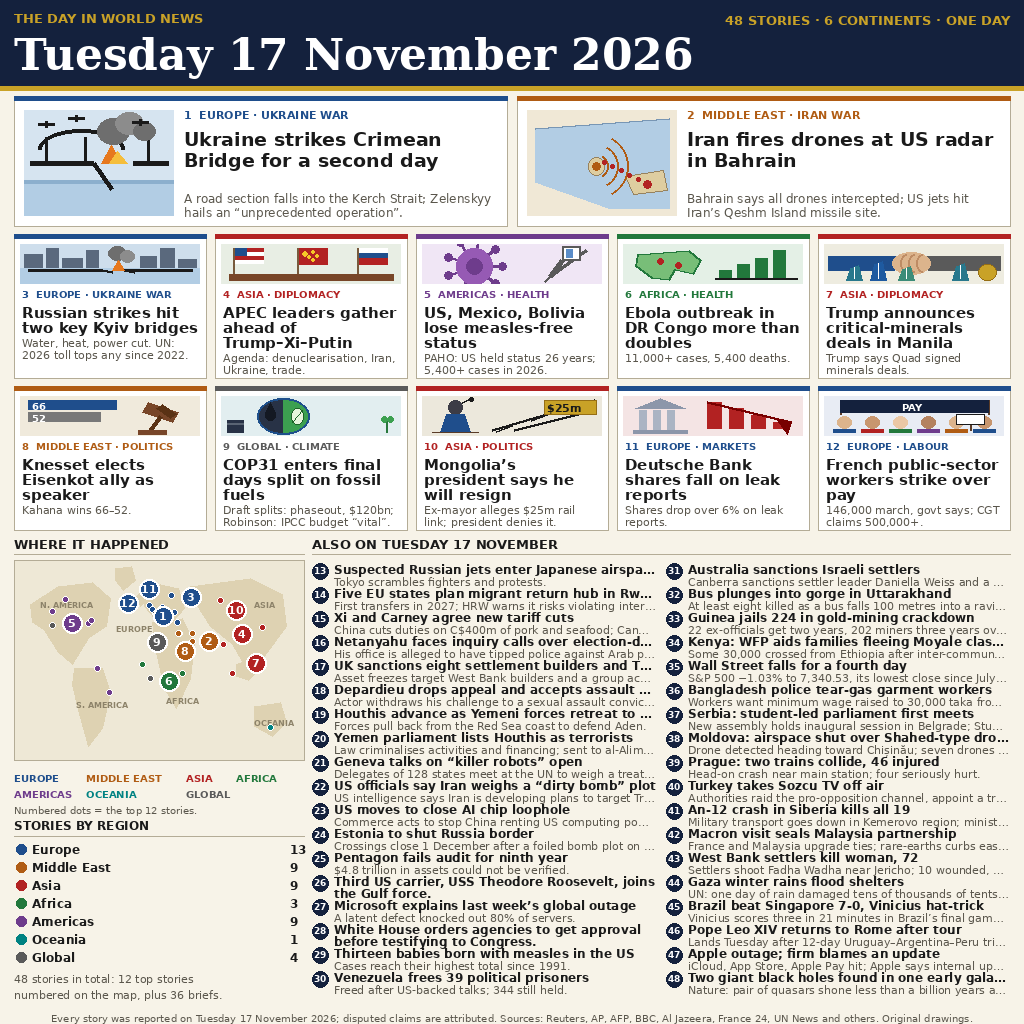
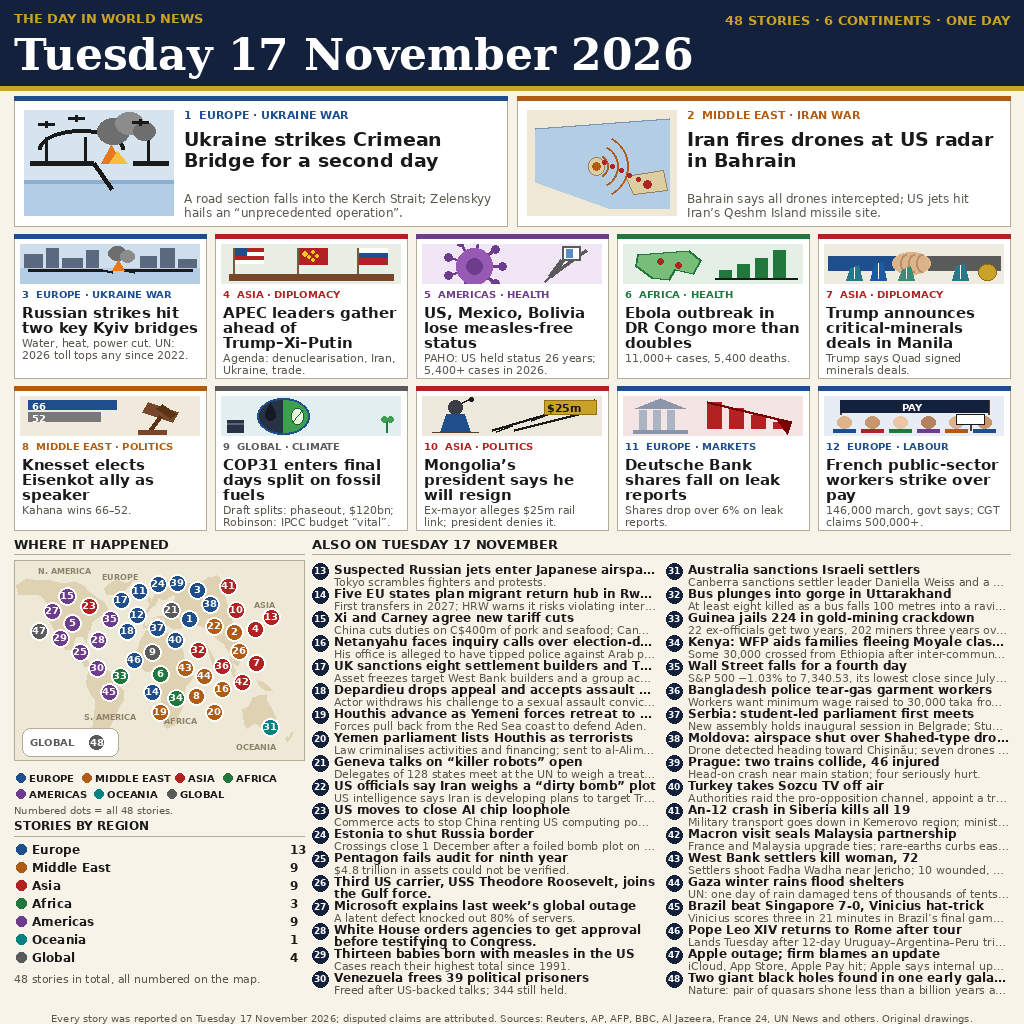
news-image-20261117 acct3 v3: map redraw — accurate continents, all 48 stories numbered

Changed region(s): [[0.0, 0.5312, 0.2812, 0.8125], [0.125, 0.9375, 0.1875, 0.9688], [0.0312, 0.9688, 0.0625, 1.0]]

diff --git a/main.py b/main.py
@@ -632,69 +632,174 @@ def build():
                 outline=RULE, width=1)
     # Land masses, drawn to read as the real continents.
     land = (222, 210, 178)
-    d.polygon([(mx + 16, my + 44), (mx + 44, my + 26), (mx + 78, my + 22),
-               (mx + 96, my + 38), (mx + 92, my + 66), (mx + 74, my + 78),
-               (mx + 58, my + 104), (mx + 44, my + 92), (mx + 30, my + 70),
-               (mx + 18, my + 62)], fill=land)  # North America
-    d.polygon([(mx + 101, my + 8), (mx + 117, my + 6), (mx + 121, my + 20),
-               (mx + 109, my + 30), (mx + 101, my + 20)], fill=land)  # Greenland
-    d.polygon([(mx + 60, my + 108), (mx + 88, my + 108), (mx + 96, my + 132),
-               (mx + 88, my + 168), (mx + 74, my + 186), (mx + 64, my + 150),
-               (mx + 58, my + 124)], fill=land)  # South America
-    d.polygon([(mx + 128, my + 34), (mx + 146, my + 24), (mx + 164, my + 28),
-               (mx + 170, my + 48), (mx + 158, my + 62), (mx + 140, my + 58),
-               (mx + 130, my + 46)], fill=land)  # Europe
-    d.polygon([(mx + 122, my + 36), (mx + 128, my + 30), (mx + 132, my + 40),
-               (mx + 126, my + 46)], fill=land)  # UK
-    d.polygon([(mx + 138, my + 62), (mx + 168, my + 58), (mx + 180, my + 82),
-               (mx + 176, my + 118), (mx + 162, my + 148), (mx + 150, my + 128),
-               (mx + 142, my + 92)], fill=land)  # Africa
-    d.polygon([(mx + 176, my + 26), (mx + 236, my + 18), (mx + 268, my + 34),
-               (mx + 272, my + 66), (mx + 250, my + 96), (mx + 232, my + 108),
-               (mx + 218, my + 84), (mx + 196, my + 66), (mx + 182, my + 44)],
+    d.polygon([(mx + 2, my + 25), (mx + 12, my + 18), (mx + 24, my + 20),
+               (mx + 36, my + 20), (mx + 48, my + 23), (mx + 60, my + 21),
+               (mx + 69, my + 25), (mx + 74, my + 31), (mx + 82, my + 37),
+               (mx + 89, my + 41), (mx + 94, my + 49), (mx + 93, my + 52),
+               (mx + 85, my + 56), (mx + 81, my + 59), (mx + 77, my + 62),
+               (mx + 76, my + 69), (mx + 73, my + 73), (mx + 72, my + 83),
+               (mx + 69, my + 76), (mx + 65, my + 76), (mx + 62, my + 76),
+               (mx + 59, my + 82), (mx + 59, my + 96), (mx + 63, my + 97),
+               (mx + 68, my + 101), (mx + 70, my + 106), (mx + 75, my + 107),
+               (mx + 73, my + 100), (mx + 67, my + 89), (mx + 52, my + 90),
+               (mx + 48, my + 85), (mx + 45, my + 77), (mx + 40, my + 70),
+               (mx + 36, my + 62), (mx + 36, my + 49), (mx + 32, my + 42),
+               (mx + 28, my + 37), (mx + 24, my + 34), (mx + 12, my + 34),
+               (mx + 4, my + 34)], fill=land)  # North America
+    d.polygon([(mx + 90, my + 28), (mx + 95, my + 23), (mx + 101, my + 20),
+               (mx + 105, my + 20), (mx + 111, my + 23), (mx + 117, my + 20),
+               (mx + 119, my + 20), (mx + 113, my + 27), (mx + 105, my + 34),
+               (mx + 97, my + 34), (mx + 92, my + 34)], fill=land)  # Greenland
+    d.polygon([(mx + 75, my + 107), (mx + 79, my + 103), (mx + 85, my + 104),
+               (mx + 89, my + 107), (mx + 95, my + 111), (mx + 97, my + 118),
+               (mx + 102, my + 123), (mx + 109, my + 130), (mx + 109, my + 140),
+               (mx + 104, my + 147), (mx + 103, my + 151), (mx + 99, my + 158),
+               (mx + 96, my + 165), (mx + 91, my + 172), (mx + 88, my + 176),
+               (mx + 84, my + 182), (mx + 82, my + 189), (mx + 81, my + 194),
+               (mx + 78, my + 189), (mx + 78, my + 180), (mx + 78, my + 170),
+               (mx + 79, my + 160), (mx + 81, my + 146), (mx + 81, my + 139),
+               (mx + 77, my + 135), (mx + 73, my + 127), (mx + 72, my + 123),
+               (mx + 73, my + 116)], fill=land)  # South America
+    d.polygon([(mx + 129, my + 68), (mx + 130, my + 58), (mx + 134, my + 51),
+               (mx + 136, my + 48), (mx + 139, my + 46), (mx + 143, my + 41),
+               (mx + 143, my + 37), (mx + 147, my + 39), (mx + 152, my + 39),
+               (mx + 154, my + 37), (mx + 160, my + 34), (mx + 161, my + 25),
+               (mx + 160, my + 18), (mx + 153, my + 20), (mx + 147, my + 27),
+               (mx + 141, my + 34), (mx + 137, my + 41), (mx + 133, my + 48),
+               (mx + 130, my + 56), (mx + 130, my + 66), (mx + 132, my + 68),
+               (mx + 137, my + 64), (mx + 139, my + 59), (mx + 143, my + 56),
+               (mx + 147, my + 56), (mx + 148, my + 62), (mx + 153, my + 59),
+               (mx + 156, my + 62), (mx + 158, my + 65), (mx + 161, my + 68),
+               (mx + 159, my + 69), (mx + 155, my + 66), (mx + 150, my + 65),
+               (mx + 147, my + 59), (mx + 143, my + 56)], fill=land)  # Europe
+    d.polygon([(mx + 133, my + 48), (mx + 135, my + 44), (mx + 133, my + 40),
+               (mx + 135, my + 37), (mx + 136, my + 38), (mx + 137, my + 44),
+               (mx + 135, my + 48)], fill=land)  # UK
+    d.polygon([(mx + 123, my + 97), (mx + 123, my + 90), (mx + 126, my + 80),
+               (mx + 129, my + 75), (mx + 132, my + 70), (mx + 137, my + 68),
+               (mx + 145, my + 66), (mx + 146, my + 70), (mx + 153, my + 73),
+               (mx + 157, my + 73), (mx + 161, my + 75), (mx + 163, my + 75),
+               (mx + 165, my + 79), (mx + 167, my + 87), (mx + 169, my + 93),
+               (mx + 170, my + 101), (mx + 172, my + 103), (mx + 176, my + 103),
+               (mx + 178, my + 104), (mx + 178, my + 116), (mx + 176, my + 121),
+               (mx + 171, my + 126), (mx + 170, my + 133), (mx + 170, my + 140),
+               (mx + 168, my + 147), (mx + 165, my + 152), (mx + 163, my + 158),
+               (mx + 160, my + 165), (mx + 157, my + 166), (mx + 153, my + 168),
+               (mx + 150, my + 166), (mx + 148, my + 159), (mx + 147, my + 147),
+               (mx + 147, my + 135), (mx + 148, my + 130), (mx + 144, my + 120),
+               (mx + 144, my + 113), (mx + 140, my + 110), (mx + 135, my + 111),
+               (mx + 131, my + 111), (mx + 127, my + 107), (mx + 123, my + 101)],
+              fill=land)  # Africa
+    d.polygon([(mx + 161, my + 68), (mx + 166, my + 68), (mx + 171, my + 65),
+               (mx + 176, my + 64), (mx + 181, my + 65), (mx + 184, my + 65),
+               (mx + 187, my + 66), (mx + 190, my + 68), (mx + 194, my + 69),
+               (mx + 197, my + 73), (mx + 200, my + 76), (mx + 203, my + 79),
+               (mx + 207, my + 82), (mx + 210, my + 83), (mx + 211, my + 87),
+               (mx + 214, my + 90), (mx + 216, my + 93), (mx + 218, my + 97),
+               (mx + 219, my + 102), (mx + 222, my + 105), (mx + 224, my + 105),
+               (mx + 225, my + 100), (mx + 225, my + 93), (mx + 224, my + 87),
+               (mx + 223, my + 79), (mx + 221, my + 73), (mx + 219, my + 68),
+               (mx + 218, my + 62), (mx + 216, my + 56), (mx + 215, my + 51),
+               (mx + 213, my + 45), (mx + 211, my + 39), (mx + 210, my + 34),
+               (mx + 208, my + 28), (mx + 207, my + 23), (mx + 205, my + 17),
+               (mx + 202, my + 15), (mx + 198, my + 17), (mx + 194, my + 17),
+               (mx + 190, my + 20), (mx + 185, my + 21), (mx + 181, my + 21),
+               (mx + 177, my + 23), (mx + 173, my + 23), (mx + 169, my + 23),
+               (mx + 165, my + 24), (mx + 163, my + 25), (mx + 161, my + 31),
+               (mx + 160, my + 34), (mx + 161, my + 37), (mx + 160, my + 39),
+               (mx + 158, my + 42), (mx + 157, my + 45), (mx + 155, my + 48),
+               (mx + 153, my + 51), (mx + 152, my + 54), (mx + 150, my + 56),
+               (mx + 148, my + 56), (mx + 150, my + 59), (mx + 153, my + 62),
+               (mx + 157, my + 65), (mx + 160, my + 65)],
               fill=land)  # Asia
-    d.polygon([(mx + 222, my + 104), (mx + 236, my + 98), (mx + 244, my + 110),
-               (mx + 234, my + 120), (mx + 222, my + 116)], fill=land)  # SE Asia
-    d.polygon([(mx + 240, my + 146), (mx + 266, my + 142), (mx + 272, my + 162),
-               (mx + 258, my + 176), (mx + 240, my + 166)], fill=land)  # Oceania
+    d.polygon([(mx + 192, my + 85), (mx + 195, my + 90), (mx + 199, my + 97),
+               (mx + 202, my + 104), (mx + 202, my + 109), (mx + 199, my + 107),
+               (mx + 197, my + 100), (mx + 194, my + 90)], fill=land)  # India
+    d.polygon([(mx + 216, my + 96), (mx + 218, my + 102), (mx + 219, my + 107),
+               (mx + 221, my + 110), (mx + 219, my + 116), (mx + 218, my + 113),
+               (mx + 216, my + 107), (mx + 215, my + 101)], fill=land)  # SE Asia
+    d.polygon([(mx + 219, my + 115), (mx + 220, my + 117), (mx + 221, my + 116),
+               (mx + 219, my + 110)], fill=land)  # Malay Peninsula
+    d.polygon([(mx + 251, my + 56), (mx + 253, my + 56), (mx + 252, my + 59),
+               (mx + 250, my + 59)], fill=land)  # Hokkaido
+    d.polygon([(mx + 242, my + 70), (mx + 246, my + 69), (mx + 250, my + 65),
+               (mx + 251, my + 63), (mx + 249, my + 66), (mx + 244, my + 70)],
+              fill=land)  # Honshu
+    d.polygon([(mx + 242, my + 74), (mx + 243, my + 72), (mx + 241, my + 73)],
+              fill=land)  # Kyushu
+    d.polygon([(mx + 228, my + 149), (mx + 230, my + 163), (mx + 232, my + 168),
+               (mx + 237, my + 165), (mx + 242, my + 163), (mx + 247, my + 168),
+               (mx + 250, my + 172), (mx + 254, my + 172), (mx + 258, my + 171),
+               (mx + 261, my + 163), (mx + 261, my + 156), (mx + 258, my + 150),
+               (mx + 255, my + 145), (mx + 252, my + 140), (mx + 252, my + 134),
+               (mx + 248, my + 135), (mx + 244, my + 135), (mx + 239, my + 137),
+               (mx + 234, my + 146)], fill=land)  # Australia
+    d.polygon([(mx + 243, my + 120), (mx + 247, my + 121), (mx + 251, my + 123),
+               (mx + 255, my + 127), (mx + 258, my + 131), (mx + 255, my + 130),
+               (mx + 251, my + 130), (mx + 247, my + 127), (mx + 244, my + 124)],
+              fill=land)  # New Guinea
+    d.polygon([(mx + 273, my + 176), (mx + 274, my + 178), (mx + 277, my + 172),
+               (mx + 279, my + 172), (mx + 277, my + 176), (mx + 274, my + 180),
+               (mx + 273, my + 182), (mx + 271, my + 178)], fill=land)  # NZ
     # Continent labels (placed clear of the numbered dots).
     lab = F_BOLD(8)
-    for lx, ly, txt in [(26, 40, "N. AMERICA"), (62, 140, "S. AMERICA"),
-                        (102, 64, "EUROPE"), (152, 136, "AFRICA"),
-                        (240, 40, "ASIA"), (240, 158, "OCEANIA")]:
+    for lx, ly, txt in [(24, 6, "N. AMERICA"), (70, 152, "S. AMERICA"),
+                        (88, 12, "EUROPE"), (150, 156, "AFRICA"),
+                        (240, 40, "ASIA"), (222, 182, "OCEANIA")]:
         d.text((mx + lx, my + ly), txt, font=lab, fill=(140, 130, 105))
-    # Brief dots first (small, under the numbered mains).
-    for b in BRIEFS:
-        bx, by = lonlat_to_xy(b[4], b[5], mx, my, mw, mh)
-        col = TAG_COLORS.get(b[3], (90, 90, 90))
-        d.ellipse([bx - 3, by - 3, bx + 3, by + 3], fill=col,
-                  outline=WHITE, width=1)
-    # Numbered main dots (nudged apart where true positions collide).
-    nudges = {1: (-14, 2), 2: (18, 0), 3: (16, -10), 4: (0, -12),
-              7: (8, 6), 8: (6, 18), 9: (-18, 16), 11: (-8, -18),
-              12: (-24, -6)}
-    for m in MAINS:
-        bx, by = lonlat_to_xy(m[5], m[6], mx, my, mw, mh)
-        dx, dy = nudges.get(m[0], (0, 0))
+    # GLOBAL box (bottom-left): placeless stories only (lon/lat 0,0).
+    d.rounded_rectangle([mx + 8, my + mh - 32, mx + 104, my + mh - 4],
+                        radius=8, fill=WHITE, outline=RULE, width=1)
+    d.text((mx + 16, my + mh - 24), "GLOBAL", font=F_BOLD(10),
+           fill=TAG_COLORS["GLOBAL"])
+    gx, gy = mx + 82, my + mh - 18
+    d.ellipse([gx - 9, gy - 9, gx + 9, gy + 9], fill=TAG_COLORS["GLOBAL"],
+              outline=WHITE, width=2)
+    d.text((gx - 6, gy - 6), "48", font=F_BOLD(10), fill=WHITE)
+    # Numbered dots for every located story (nudged apart in clusters).
+    nudges = {1: (12, 5), 2: (43, -9), 3: (22, -17), 4: (13, -17),
+              5: (0, 0), 6: (-9, -7), 7: (8, 6), 8: (17, 63), 9: (-23, 26),
+              10: (0, 0), 11: (-18, -16), 12: (-15, 6), 13: (9, -10),
+              14: (-23, 11), 15: (2, -3), 16: (43, 56), 17: (-28, -5),
+              18: (-25, 22), 19: (-27, 55), 20: (27, 55), 21: (16, -3),
+              22: (22, -7), 23: (1, -17), 24: (-13, -11), 25: (-8, 29),
+              26: (47, 10), 27: (0, 0), 28: (10, 17), 29: (-12, 15),
+              30: (0, 0), 31: (0, 0), 32: (-16, 14), 33: (-22, 12),
+              34: (-6, 25), 35: (19, -1), 36: (-1, 22), 37: (-10, 13),
+              38: (36, -8), 39: (15, -24), 40: (-2, 18), 41: (8, -14),
+              42: (10, 9), 43: (6, 35), 44: (26, 43), 45: (0, 0),
+              46: (-27, 41), 47: (-13, 6)}
+
+    def num_dot(num, lon, lat, region):
+        bx, by = lonlat_to_xy(lon, lat, mx, my, mw, mh)
+        dx, dy = nudges.get(num, (0, 0))
         bx, by = bx + dx, by + dy
-        col = TAG_COLORS.get(m[4], (90, 90, 90))
-        d.ellipse([bx - 10, by - 10, bx + 10, by + 10], fill=col,
+        col = TAG_COLORS.get(region, (90, 90, 90))
+        d.ellipse([bx - 9, by - 9, bx + 9, by + 9], fill=col,
                   outline=WHITE, width=2)
-        label = str(m[0])
-        lw = d.textlength(label, font=F_BOLD(11))
-        d.text((bx - lw / 2, by - 7), label, font=F_BOLD(11), fill=WHITE)
-    # Legend.
+        label = str(num)
+        lw = d.textlength(label, font=F_BOLD(10))
+        d.text((bx - lw / 2, by - 7), label, font=F_BOLD(10), fill=WHITE)
+
+    # Brief dots first (story 48 is placeless: lives in the GLOBAL box).
+    for b in BRIEFS:
+        if b[4] == 0.0 and b[5] == 0.0:
+            continue
+        num_dot(b[0], b[4], b[5], b[3])
+    # Numbered main dots (drawn last, on top).
+    for m in MAINS:
+        num_dot(m[0], m[5], m[6], m[4])
+    # Legend: colour key with dots (two rows, like the reference).
     ly = my + mh + 12
-    d.text((14, ly), "EUROPE", font=F_BOLD(10), fill=TAG_COLORS["EUROPE"])
-    d.text((86, ly), "MIDDLE EAST", font=F_BOLD(10),
-           fill=TAG_COLORS["MIDDLE EAST"])
-    d.text((186, ly), "ASIA", font=F_BOLD(10), fill=TAG_COLORS["ASIA"])
-    d.text((236, ly), "AFRICA", font=F_BOLD(10), fill=TAG_COLORS["AFRICA"])
+    for dx0, name in [(16, "EUROPE"), (82, "MIDDLE EAST"), (175, "ASIA"),
+                      (223, "AFRICA")]:
+        d.ellipse([dx0, ly + 1, dx0 + 9, ly + 10], fill=TAG_COLORS[name])
+        d.text((dx0 + 13, ly), name, font=F_BOLD(10), fill=INK)
     ly += 16
-    d.text((14, ly), "AMERICAS", font=F_BOLD(10), fill=TAG_COLORS["AMERICAS"])
-    d.text((86, ly), "OCEANIA", font=F_BOLD(10), fill=TAG_COLORS["OCEANIA"])
-    d.text((186, ly), "GLOBAL", font=F_BOLD(10), fill=TAG_COLORS["GLOBAL"])
-    d.text((14, ly + 16), "Numbered dots = the top 12 stories.",
+    for dx0, name in [(16, "AMERICAS"), (94, "OCEANIA"), (167, "GLOBAL")]:
+        d.ellipse([dx0, ly + 1, dx0 + 9, ly + 10], fill=TAG_COLORS[name])
+        d.text((dx0 + 13, ly), name, font=F_BOLD(10), fill=INK)
+    d.text((14, ly + 16), "Numbered dots = all 48 stories.",
            font=F_REG(10), fill=MUTED)
     # Region tally, counted from the data above.
     counts = {}
@@ -713,9 +818,7 @@ def build():
         d.text((32, ty), name.title(), font=F_BOLD(12), fill=INK)
         d.text((290, ty), str(n), font=F_BOLD(12), fill=INK)
         ty += 18
-    d.text((14, ty + 4), "48 stories in total: 12 top stories",
-           font=F_REG(11), fill=MUTED)
-    d.text((14, ty + 20), "numbered on the map, plus 36 briefs.",
+    d.text((14, ty + 4), "48 stories in total, all numbered on the map.",
            font=F_REG(11), fill=MUTED)
 
     # ---- Bottom right: briefs ----
